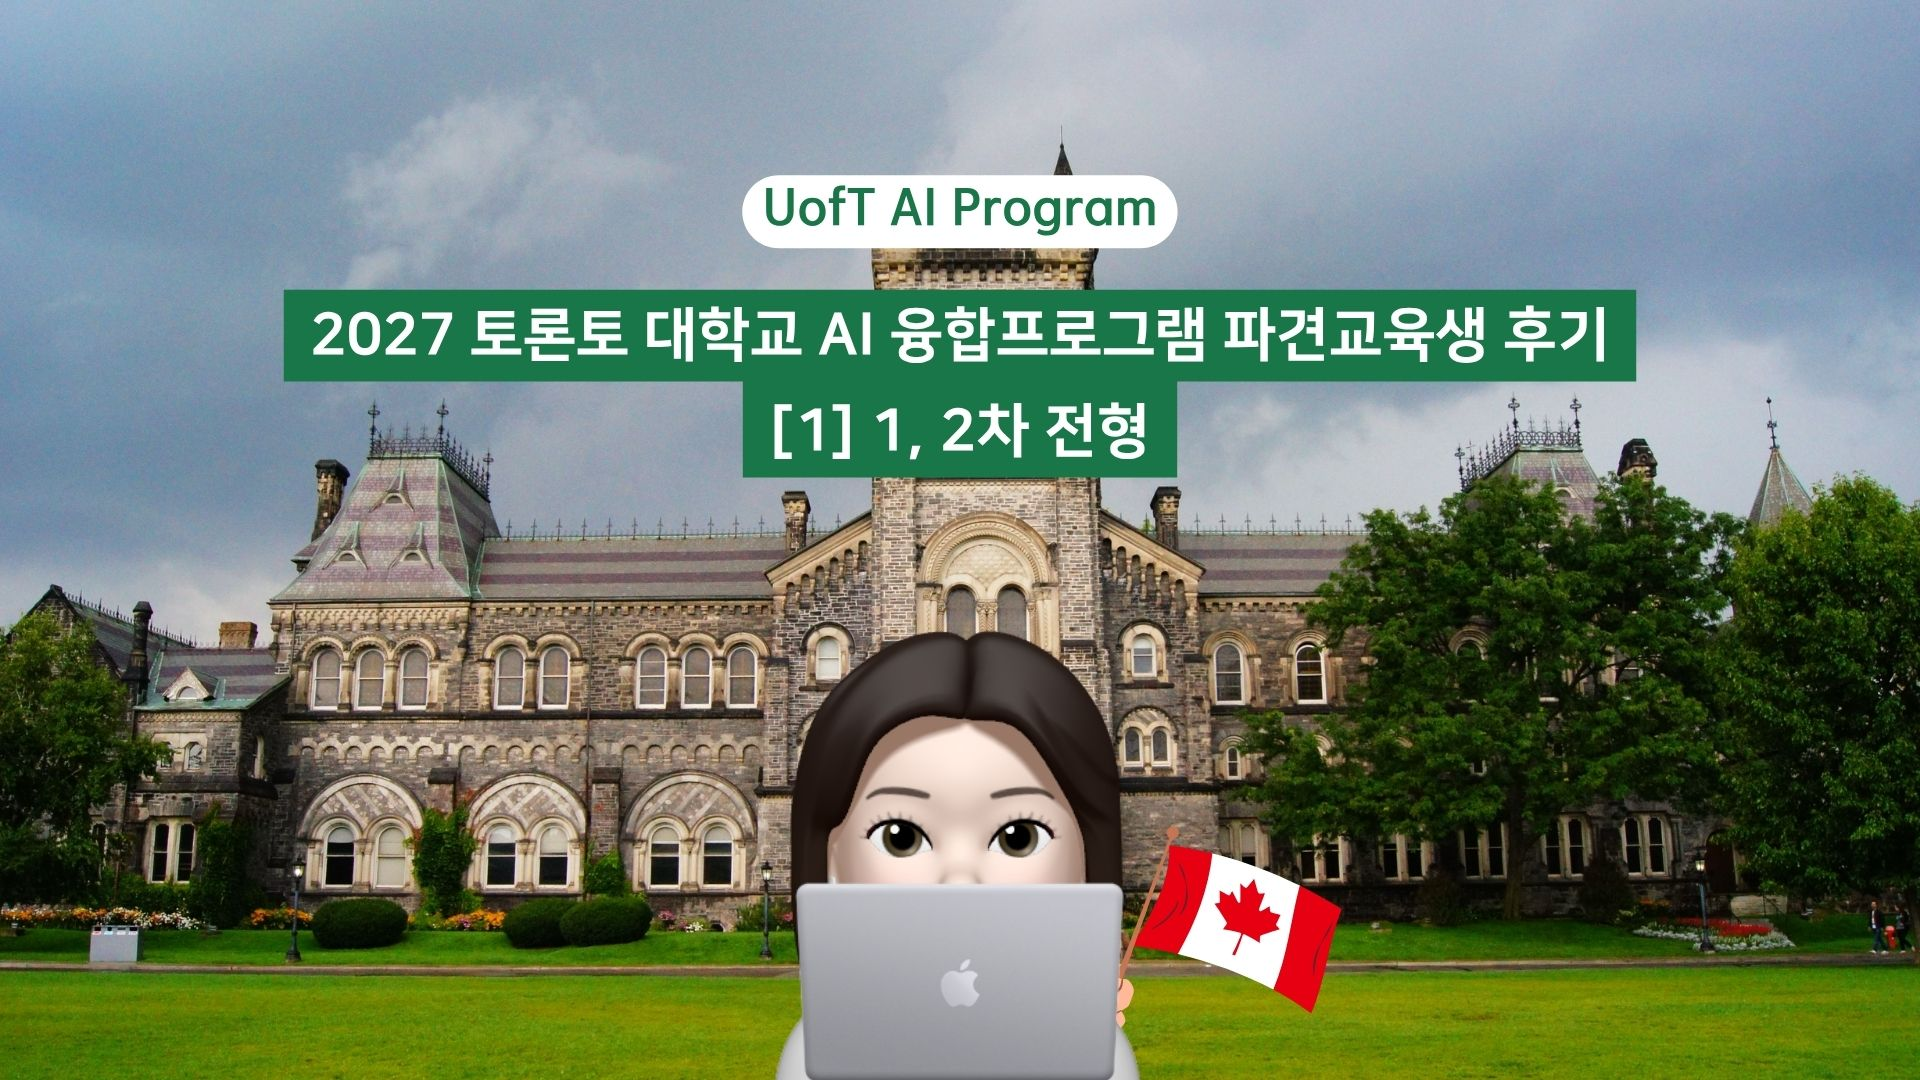
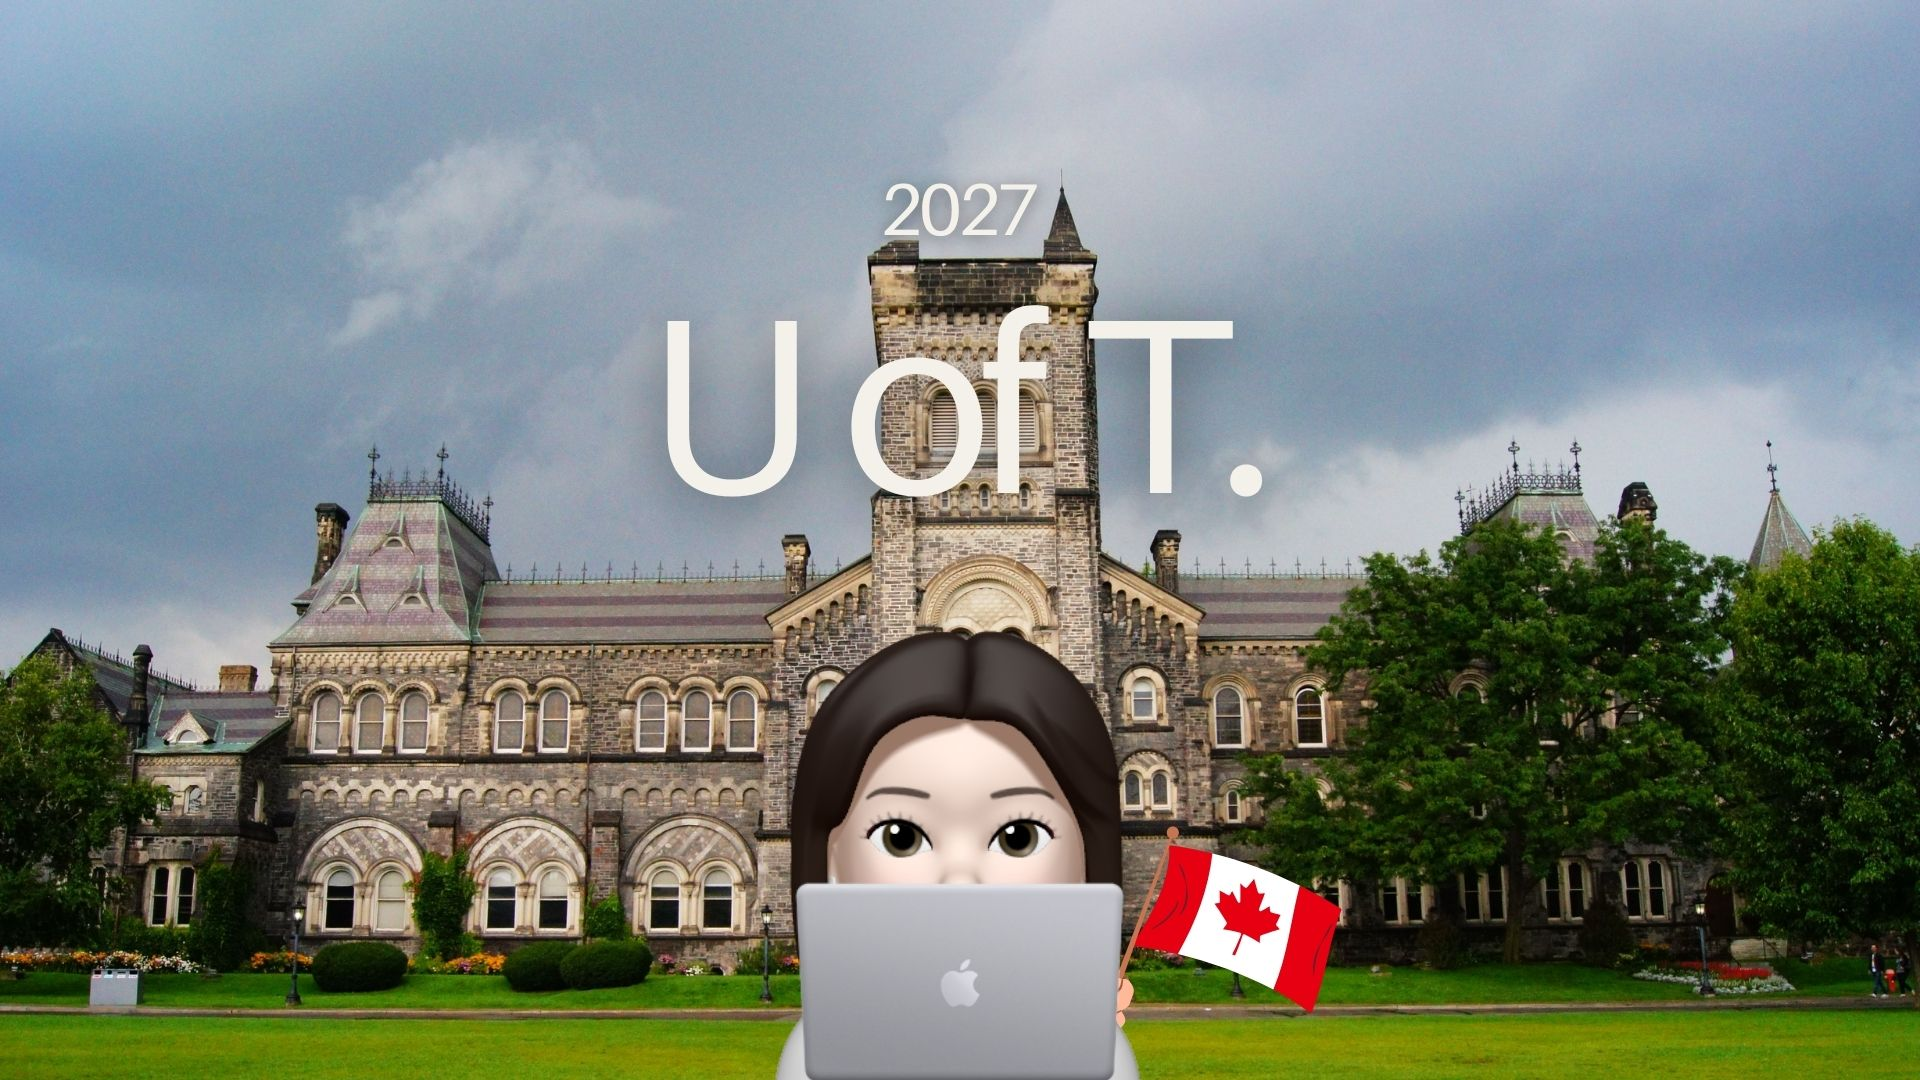
teaser

diff --git a/_includes/page__hero.html b/_includes/page__hero.html
@@ -1,4 +1,5 @@
 {% capture overlay_img_path %}{{ page.header.overlay_image | relative_url }}{% endcapture %}
+{% assign hero_image = page.header.image | default: page.header.teaser %}
 
 {% if page.header.overlay_filter contains "gradient" %}
   {% capture overlay_filter %}{{ page.header.overlay_filter }}{% endcapture %}
@@ -47,7 +48,7 @@
       {% endif %}
     </div>
   {% else %}
-    <img src="{{ page.header.image | relative_url }}" alt="{{ image_description }}" class="page__hero-image">
+    <img src="{{ hero_image | relative_url }}" alt="{{ image_description }}" class="page__hero-image">
   {% endif %}
   {% if page.header.caption %}
     <span class="page__hero-caption">{{ page.header.caption | markdownify | remove: "<p>" | remove: "</p>" }}</span>

diff --git a/_layouts/single.html b/_layouts/single.html
@@ -2,7 +2,7 @@
 layout: default
 ---
 
-{% if page.header.overlay_color or page.header.overlay_image or page.header.image %}
+{% if page.header.overlay_color or page.header.overlay_image or page.header.image or page.header.teaser %}
   {% include page__hero.html %}
 {% elsif page.header.video.id and page.header.video.provider %}
   {% include page__hero_video.html %}
